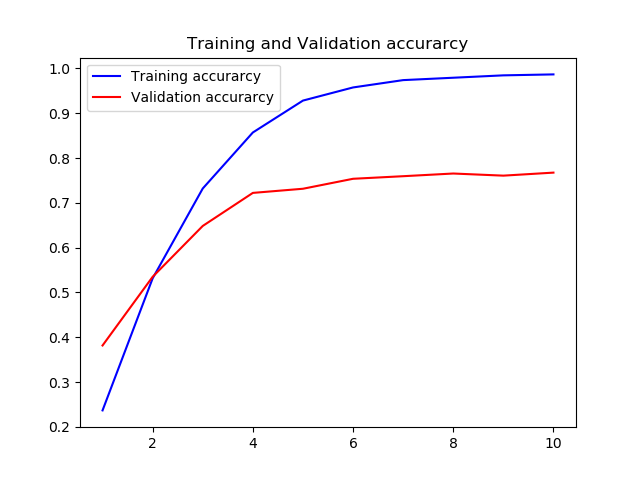
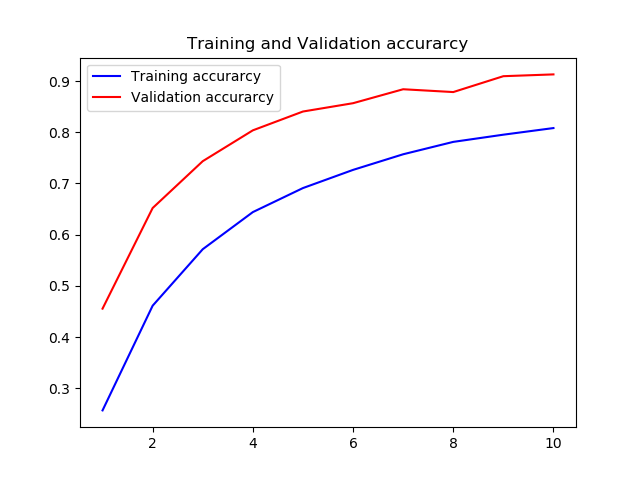
max acc 94%; still some things to fix.

diff --git a/roughness_ml.py b/roughness_ml.py
@@ -48,9 +48,12 @@ model = Sequential()
 model.add(Conv2D(64, kernel_size=(3, 3), activation='relu', input_shape=input_shape))
 model.add(MaxPooling2D(pool_size=(2, 2)))
 
+model.add(Conv2D(32, kernel_size=(3, 3), activation='relu'))
+model.add(MaxPooling2D(pool_size=(2, 2)))
 
 model.add(Dropout(0.5))
 model.add(Flatten())
+model.add(Dense(256, activation='relu'))
 model.add(Dense(128, activation='relu'))
 model.add(Dense(num_classes, activation='softmax'))
 
@@ -109,10 +112,14 @@ for i in range(len(interfs_test)):
 zetas_pred = np.array(zetas_pred)
 
 #fraction of zetas the model got right in this Test.
-fractional_accuracy = (zetas_test==zetas_pred).sum() / len(zetas_test)
-print('Percentage accuracy in testing = '
-      + str(np.round(fractional_accuracy * 100, 2))
-      + '%')
+print('zetas_test = ',zetas_test)
+print('zetas_pred = ',zetas_pred)
+bool_array = len(zetas_test[zetas_test-zetas_pred==0.0])#zetas_test==zetas_pred
+print('bool_array= ', bool_array)
+fractional_accuracy = 1.0 * bool_array.sum()
+fractional_accuracy /= len(zetas_test)
+print('fractional_accuracy =',fractional_accuracy)
+print('Percentage accuracy in testing = '+ str(fractional_accuracy*100)+ '%')
 #calculating rms error
 rms_error = np.sqrt( ((zetas_pred - zetas_test)**2).sum() / len(zetas_test) )
 print('RMS Error: '+str(np.round(rms_error, 2)))
